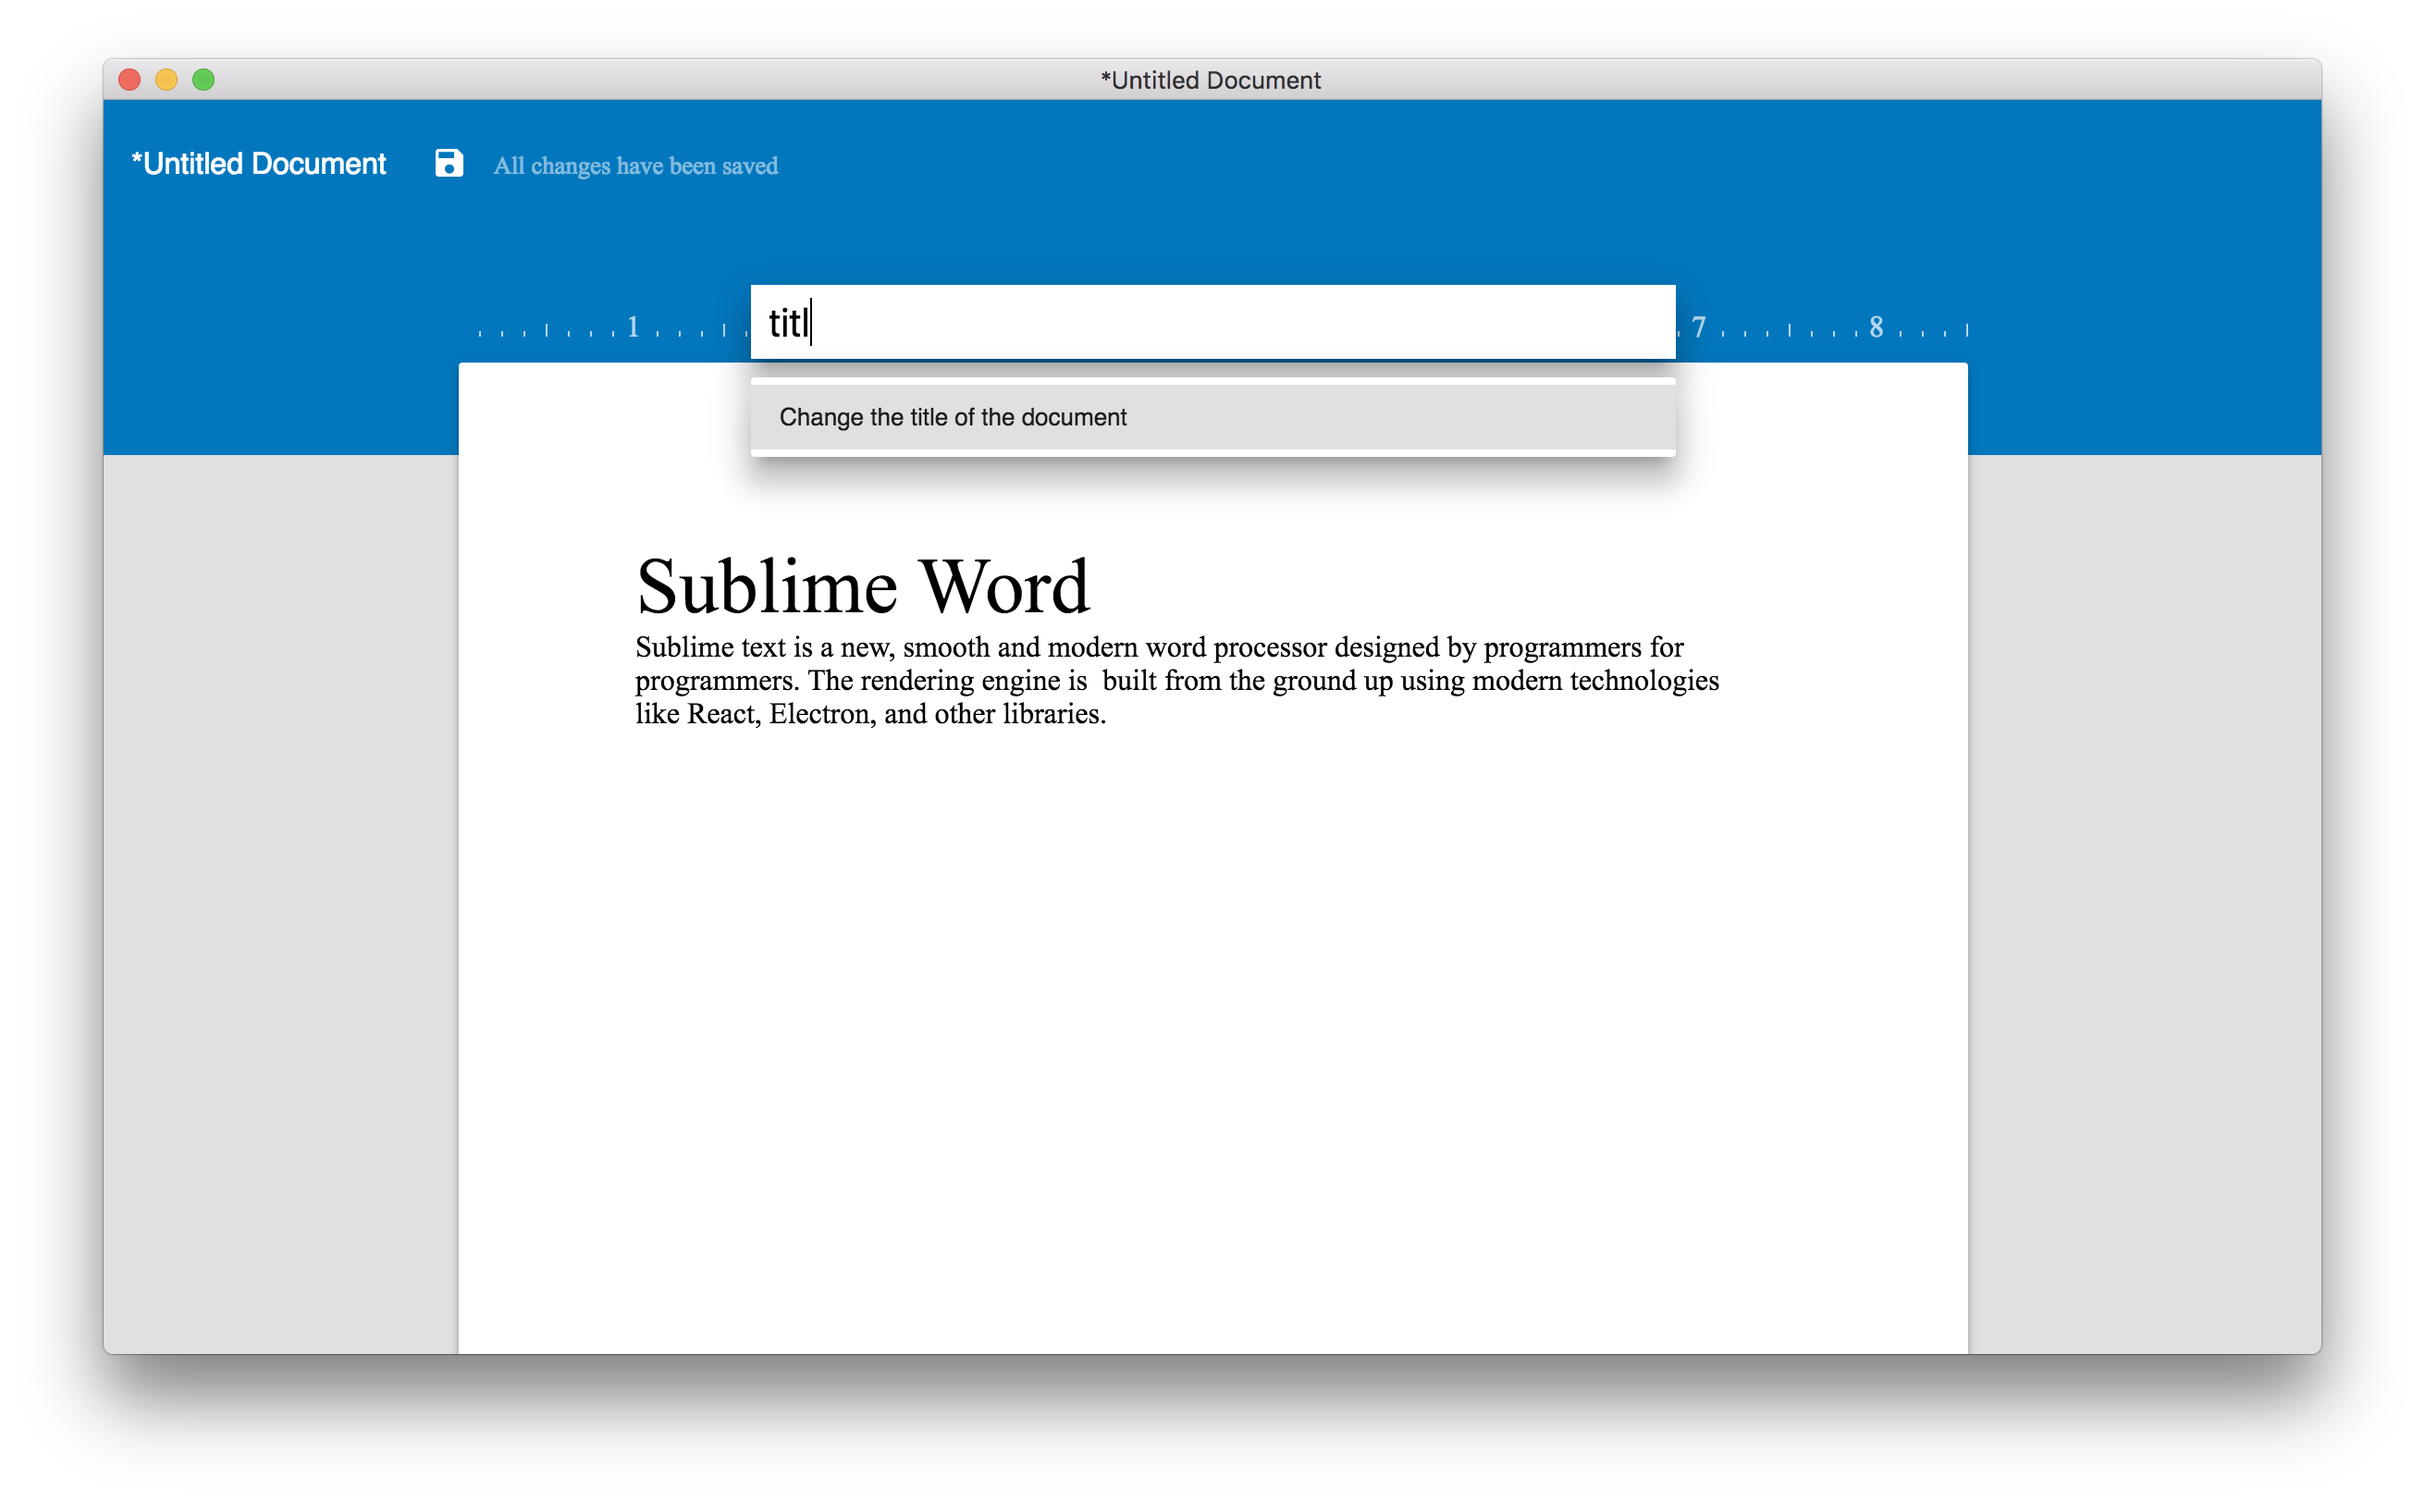
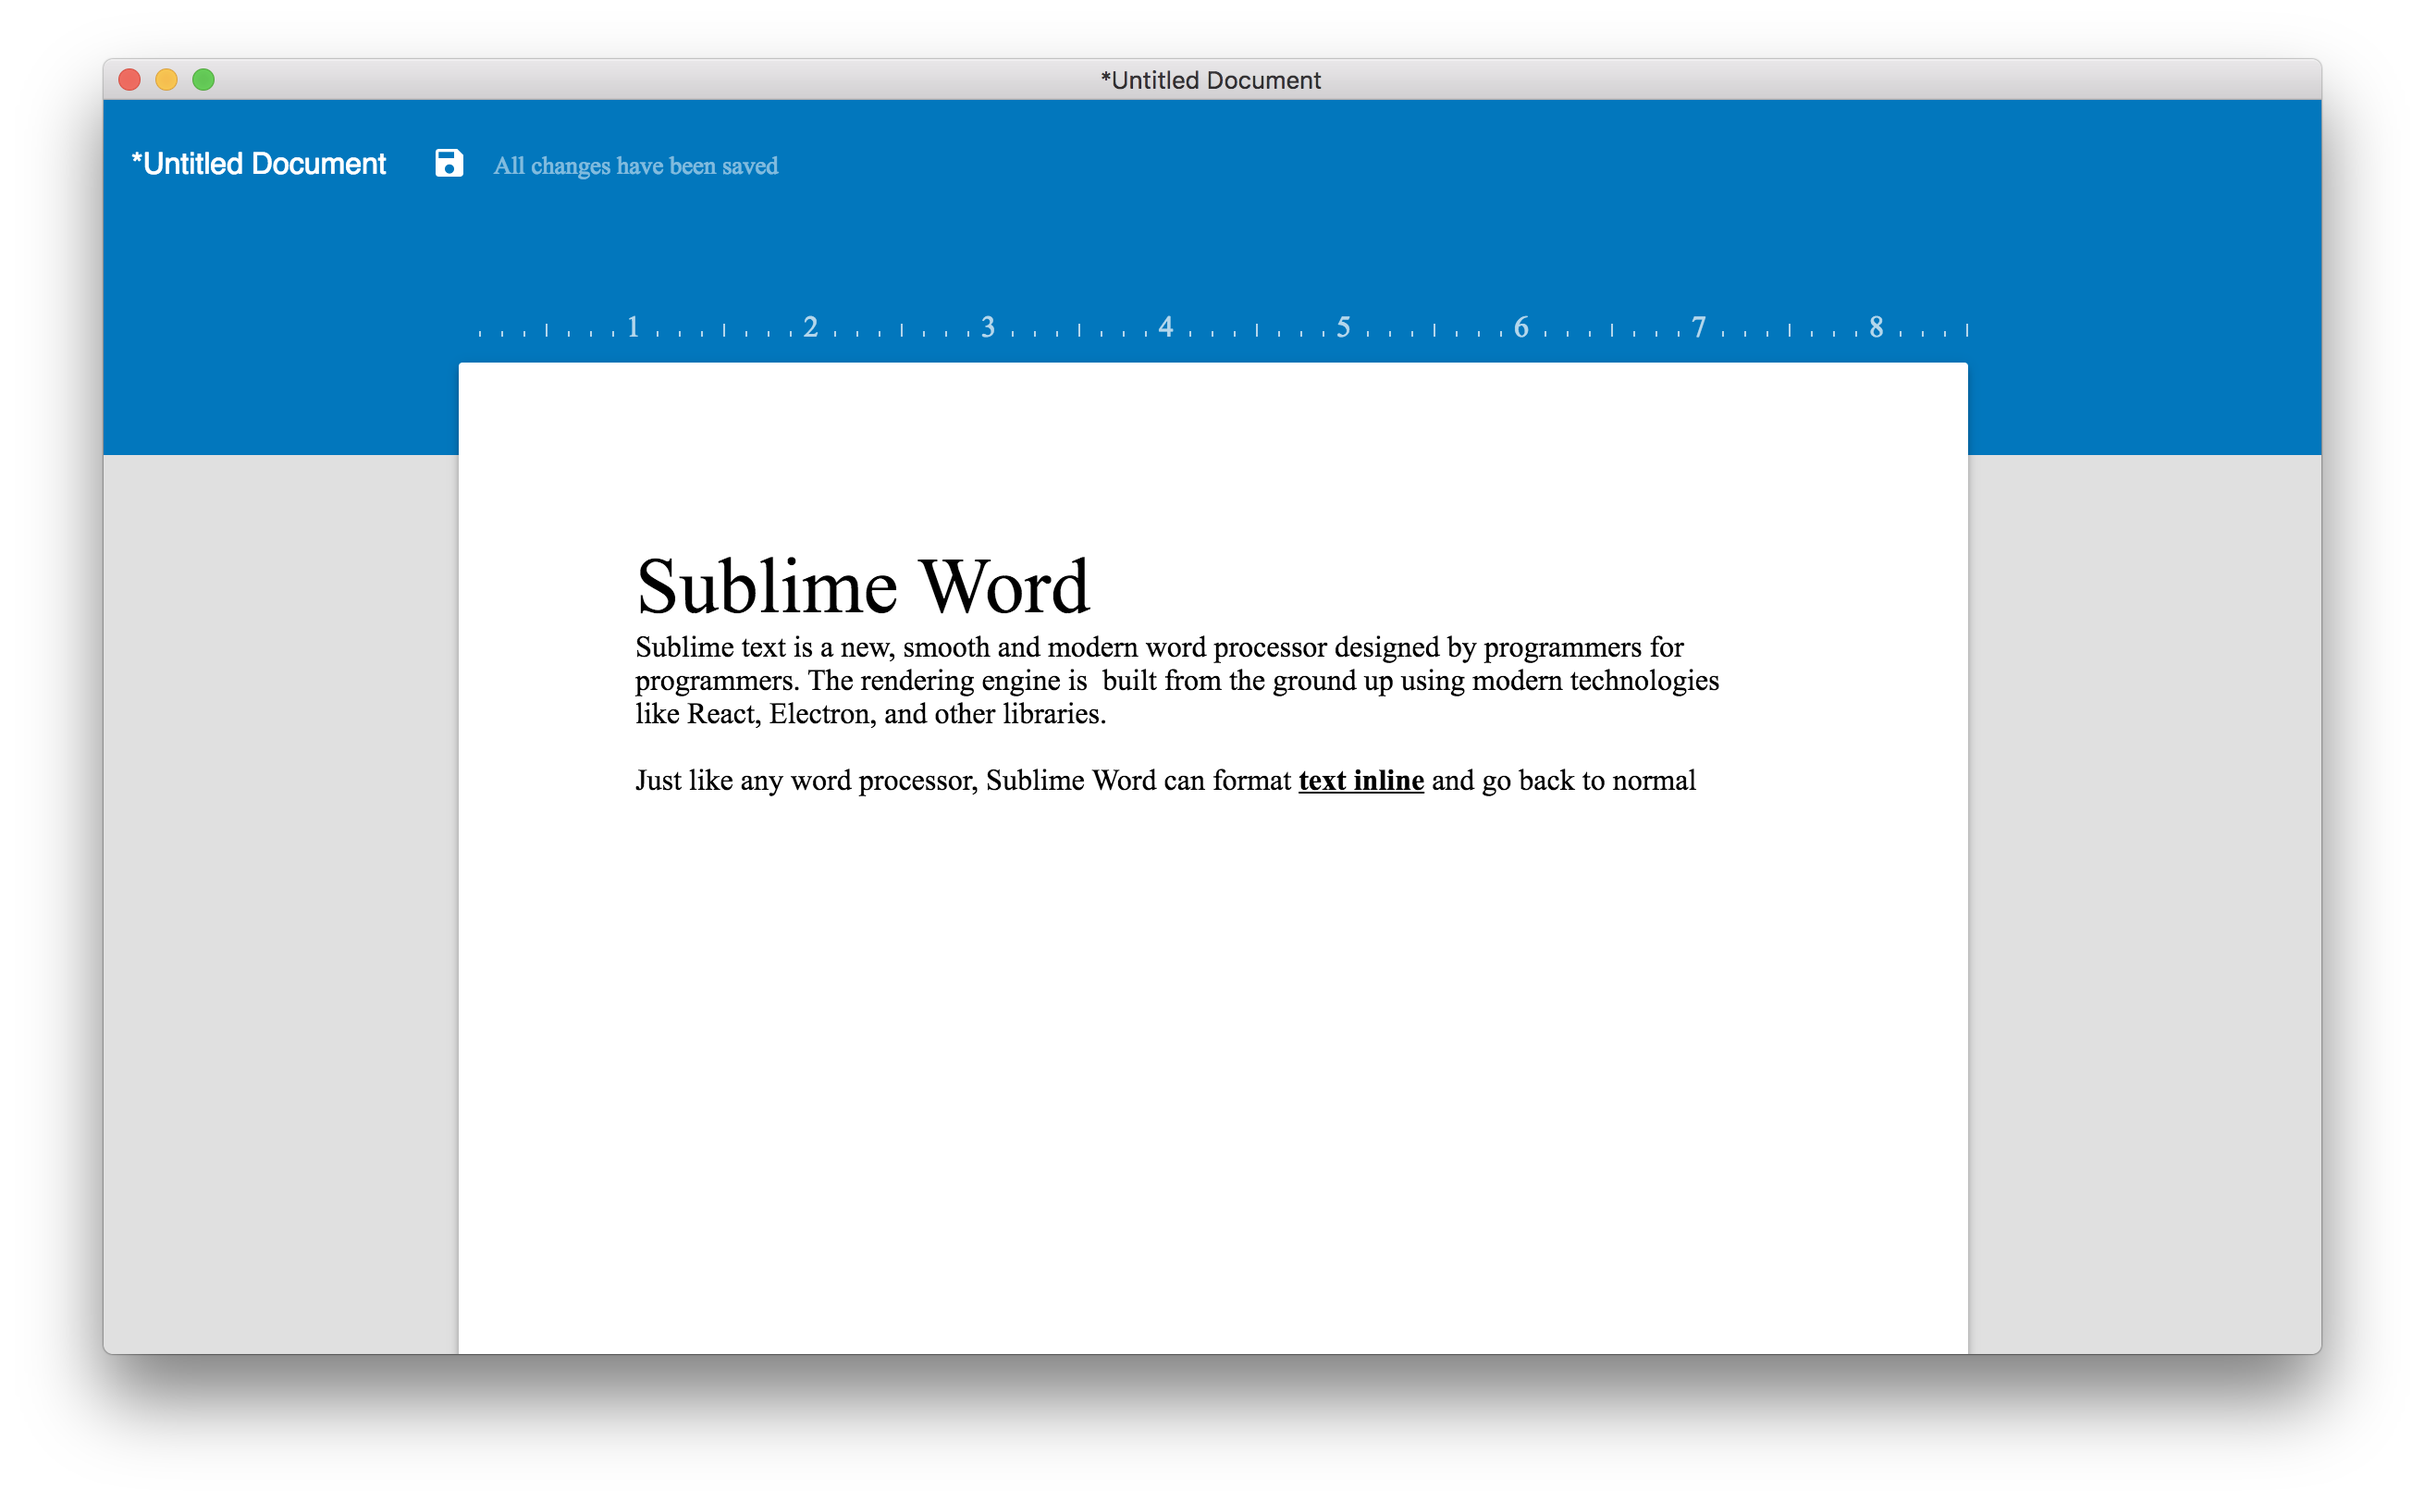
adding custom styling

Changed region(s): [[0.278, 0.1847, 0.7105, 0.3387], [0.278, 0.4926, 0.6487, 0.5234]]

diff --git a/src/ui/Document/Body.js b/src/ui/Document/Body.js
@@ -3,8 +3,38 @@ import DocumentActions from '../../Actions/DocumentActions'
 import FormatActions from '../../Actions/FormatActions'
 
 const fixText = text => {
-	return text
-		.replace(/ /g, "\u00a0"); // spaces
+	text = text
+		.replace(/ /g, "\u00a0") // spaces
+
+	let split = text.split(/\n/g);
+	if (split.length === 1) return split[0];
+	let results = [];
+	for (var i = 0; i < split.length; i++){
+		if (split[i].length > 0){
+			results.push(<span key={i}>{split[i]}</span>);
+		}
+		if (i < split.length - 1){
+			results.push(<br key={i} />);
+		}
+	}
+	return results;
+}
+
+const getFormats = (formats, obj) => {
+	let name = obj.format;
+	if (!formats[name]) return Object.assign({}, obj.style);
+	return Object.assign(formats[name], obj.style);
+}
+
+const Text = props => {
+	const {children, formats, style} = props;
+	if (typeof children === 'string') return <span style={style}>{fixText(props.children)}</span>;
+
+	return children.map((val, idx) => (
+		<Text style={getFormats(formats, val)} key={idx}>
+			{fixText(val.text)}
+		</Text>
+	));
 }
 
 class Body extends Component{
@@ -19,19 +49,17 @@ class Body extends Component{
 		DocumentActions.getDocument(doc => this.setState({body: doc}));
 	}
 
-	getFormat(name){
-		console.log(this.state.formats);
-		if (!this.state.formats[name]) return {};
-		return this.state.formats[name];
-	}
-
 	render(){
-		const {body} = this.state;
+		const {body, formats} = this.state;
 
 		return (
 			<span>
 				{body.map((val, idx) => (
-					<div style={this.getFormat(val.format)} key={idx}>{fixText(val.text)}</div>
+					<div style={getFormats(formats, val)} key={idx}>
+						<Text formats={formats}>
+							{val.text}
+						</Text>
+					</div>
 				))}
 			</span>
 		);

diff --git a/src/Actions/DocumentActions.js b/src/Actions/DocumentActions.js
@@ -38,6 +38,31 @@ let _document = {
 		{
 			format: 'Paragraph',
 			text: 'like React, Electron, and other libraries.'
+		},
+		{
+			format: 'LineBreak',
+			text: '\n'
+		},
+		{
+			format: 'Paragraph',
+			text: [
+				{
+					format: 'Paragraph',
+					text: 'Just like any word processor, Sublime Word can format '
+				}, 
+				{
+					format: 'Custom',
+					text: 'text inline',
+					style: {
+						textDecoration: 'underline',
+						fontWeight: 'bold'
+					}
+				},
+				{
+					format: 'Paragraph',
+					text: ' and go back to normal'
+				}
+			]
 		}
 	]
 };

diff --git a/src/Actions/FormatActions.js b/src/Actions/FormatActions.js
@@ -6,6 +6,12 @@ import {
 let _defaultFormats = {
 	'Title': {
 		fontSize: '32pt'
+	},
+	'Paragraph': {
+
+	},
+	'LineBreak': {
+		
 	}
 }
 

diff --git a/README.md b/README.md
@@ -1,5 +1,7 @@
 # Sublime Word
-A modern word processor built for programmers
+Sublime text is a new, smooth and modern word processor designed by programmers for 
+programmers. The rendering engine is built from the ground up using modern technologies
+like React, Electron, and other libraries.
 
 <p>
 	<img src='./docs/Beta Page.png' alt='Screenshot of SublimeWord' />
